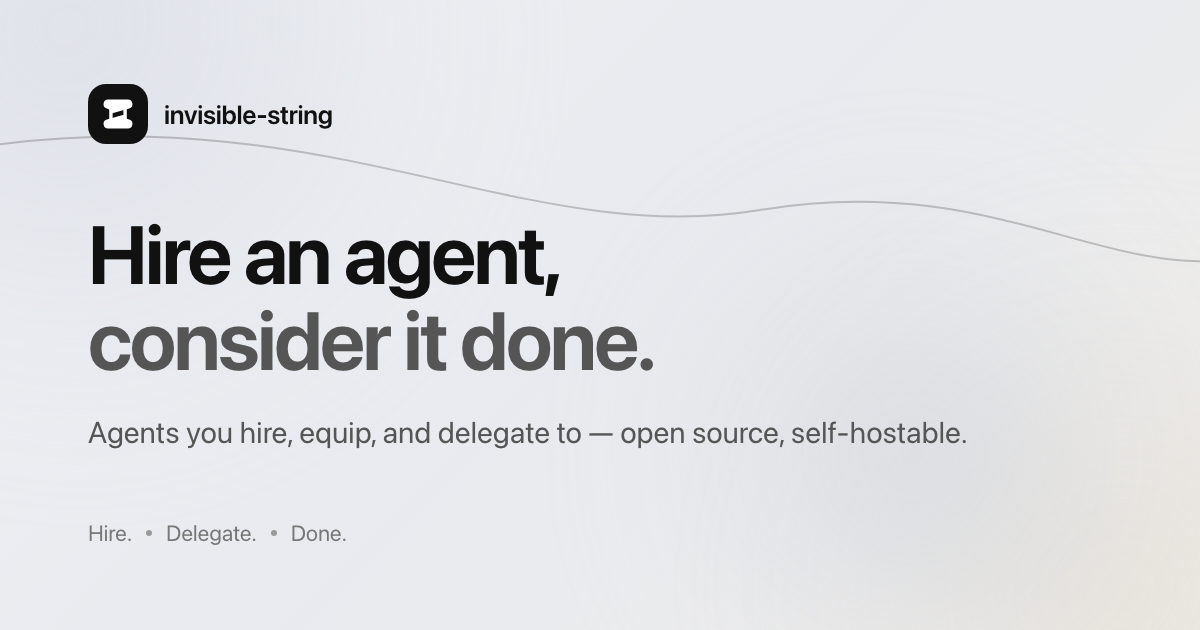
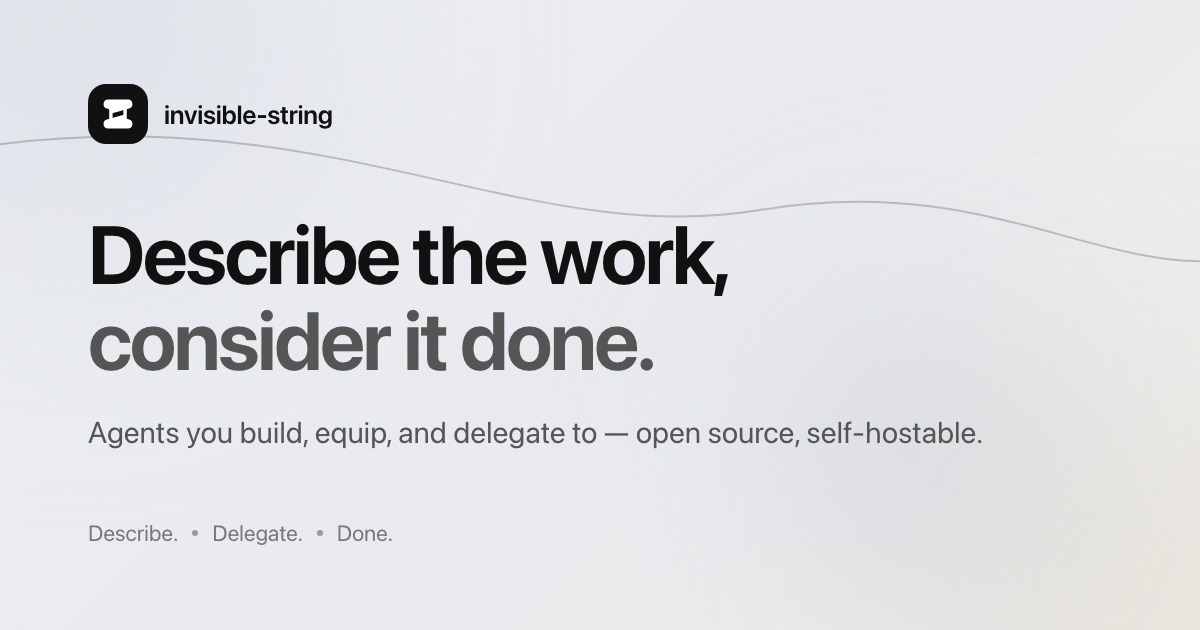
refactor(messaging): retire the hire voice for describe/delegate
Marketing and docs move from employment framing to acceleration framing:
hero becomes 'Describe the work, consider it done.', the verb set becomes
describe/build/equip/delegate, and the CTA triplet 'Describe. Delegate.
Done.' Agents are 'a role you define', never 'someone you hire' — the
platform accelerates people's work rather than replacing them. Swept across
the landing page, HTML metas, og image (regenerated), llms.txt, site docs,
README, AGENTS.md, UI copy, e2e narratives, and the normative vocabulary
standard in the 2026-07-10 spec (hire added to retired terms).

Changed region(s): [[0.0925, 0.3619, 0.6167, 0.4825], [0.2158, 0.6635, 0.8325, 0.7238], [0.0617, 0.8143, 0.3392, 0.8746]]

diff --git a/apps/site/index.html b/apps/site/index.html
@@ -3,10 +3,10 @@
   <head>
     <meta charset="UTF-8" />
     <meta name="viewport" content="width=device-width, initial-scale=1.0" />
-    <title>invisible-string — hire an agent, consider it done</title>
+    <title>invisible-string — describe the work, consider it done</title>
     <meta
       name="description"
-      content="Give an agent a job, a model, and the tools it needs. Chat with it like a teammate — or put it on standing duty from Slack, forms, webhooks, or a schedule. Live, reliable, and yours to approve."
+      content="Build an agent with a role, a model, and the tools it needs. Chat with it directly — or put it on standing duty from Slack, forms, webhooks, or a schedule. More time for the work only you can do."
     />
     <meta name="theme-color" content="#f7f7f7" />
     <link rel="icon" href="/favicon.svg" type="image/svg+xml" />
@@ -15,18 +15,18 @@
     <meta property="og:type" content="website" />
     <meta property="og:site_name" content="invisible-string" />
     <meta property="og:url" content="%VITE_SITE_URL%/" />
-    <meta property="og:title" content="invisible-string — hire an agent, consider it done" />
+    <meta property="og:title" content="invisible-string — describe the work, consider it done" />
     <meta
       property="og:description"
-      content="Give an agent a job, a model, and the tools it needs. Chat with it like a teammate — or put it on standing duty from Slack, forms, webhooks, or a schedule. Live, reliable, and yours to approve."
+      content="Build an agent with a role, a model, and the tools it needs. Chat with it directly — or put it on standing duty from Slack, forms, webhooks, or a schedule. More time for the work only you can do."
     />
     <meta property="og:image" content="%VITE_SITE_URL%/og.png" />
 
     <meta name="twitter:card" content="summary_large_image" />
-    <meta name="twitter:title" content="invisible-string — hire an agent, consider it done" />
+    <meta name="twitter:title" content="invisible-string — describe the work, consider it done" />
     <meta
       name="twitter:description"
-      content="Give an agent a job, a model, and the tools it needs. Chat with it like a teammate — or put it on standing duty from Slack, forms, webhooks, or a schedule. Live, reliable, and yours to approve."
+      content="Build an agent with a role, a model, and the tools it needs. Chat with it directly — or put it on standing duty from Slack, forms, webhooks, or a schedule. More time for the work only you can do."
     />
     <meta name="twitter:image" content="%VITE_SITE_URL%/og.png" />
   </head>

diff --git a/apps/site/src/components/landing/Agents.tsx b/apps/site/src/components/landing/Agents.tsx
@@ -4,7 +4,7 @@ import type { ComponentType } from "react";
 import { GlassPanel } from "../ui";
 import { Reveal, SectionHeading } from "./parts";
 
-/* "Hire the agent. Delegate the work." An Agent is someone you hire — three
+/* "Build the agent. Delegate the work." An Agent is a role you define — three
    cards spell out its definition (Persona · Model · Context) — and a Workflow
    is a standing delegation, drawn as a full-width trigger → agent →
    instructions strip beneath them. */
@@ -52,7 +52,7 @@ const DELEGATION: ReadonlyArray<{
     label: "Agent",
     icon: Bot,
     hint: "Who handles it",
-    copy: "One of the agents you've hired and published.",
+    copy: "One of the agents you've built and published.",
   },
   {
     label: "Instructions",
@@ -66,9 +66,9 @@ export function Agents() {
   return (
     <section className="site-container section-block">
       <SectionHeading
-        eyebrow="Hire it"
-        title="Hire the agent. Delegate the work."
-        lede="An agent is someone you hire — give it a persona, a model, and the tools it's equipped with. Publish it once: chat with it directly, or put it on standing duty."
+        eyebrow="Build it"
+        title="Build the agent. Delegate the work."
+        lede="Give an agent a role, a model, and the tools of its trade. Publish it once: chat with it directly, or put it on standing duty."
       />
 
       <div className="mt-12 grid gap-4 md:grid-cols-3">

diff --git a/apps/site/src/components/landing/Hero.tsx b/apps/site/src/components/landing/Hero.tsx
@@ -45,7 +45,7 @@ export function Hero() {
         className="text-display-1 text-balance"
       >
         <motion.span variants={line} className="block">
-          Hire an agent,
+          Describe the work,
         </motion.span>
         <motion.span variants={line} className="block">
           consider it done.
@@ -58,9 +58,9 @@ export function Hero() {
         transition={{ duration: 0.4, ease: EASE, delay: 0.28 }}
         className="mt-6 max-w-2xl text-lede text-ink-2"
       >
-        Give an agent a job, a model, and the tools it needs. Chat with it like
-        a teammate — or put it on standing duty from Slack, forms, webhooks, or
-        a schedule. Live, reliable, and yours to approve.
+        Build an agent with a role, a model, and the tools it needs. Chat with
+        it directly — or put it on standing duty from Slack, forms, webhooks, or
+        a schedule. More time for the work only you can do.
       </motion.p>
 
       <motion.div
@@ -87,7 +87,7 @@ export function Hero() {
         className="mt-16 w-full max-w-4xl sm:mt-20"
       >
         <Vignette
-          label="An agent is hired — persona, model, tools — published, then handles a request in chat in six seconds."
+          label="An agent comes together — persona, model, tools — is published, then handles a request in chat in six seconds."
           className="p-0"
         >
           <AgentVignette />

diff --git a/apps/site/og.html b/apps/site/og.html
@@ -170,16 +170,16 @@
 
       <div>
         <h1 class="headline">
-          Hire an agent,<br />
+          Describe the work,<br />
           <span class="muted">consider it done.</span>
         </h1>
         <p class="subline">
-          Agents you hire, equip, and delegate to — open source, self-hostable.
+          Agents you build, equip, and delegate to — open source, self-hostable.
         </p>
       </div>
 
       <div class="foot">
-        <span>Hire.</span>
+        <span>Describe.</span>
         <span class="dot"></span>
         <span>Delegate.</span>
         <span class="dot"></span>

diff --git a/e2e/specs/agent-workflow.e2e.ts b/e2e/specs/agent-workflow.e2e.ts
@@ -5,7 +5,7 @@
  *
  *   sign in → author a skill (with a file attachment) in /context → install a
  *   registry MCP connection (registry browser, network-stubbed) + add a
- *   custom-URL MCP connection (→ the local stub server) → HIRE an agent in
+ *   custom-URL MCP connection (→ the local stub server) → BUILD an agent in
  *   /agents: persona, balanced model preset, both connections + the skill
  *   attached → Publish (real eve build; wait for the ready chip) → CHAT with
  *   it via the "New chat" agent picker: the WORKING BLOCK streams live steps
@@ -56,7 +56,7 @@ const AGENT_NAME = "Acceptance triage agent";
 const WORKFLOW_NAME = "Acceptance form workflow";
 const FORM_EMAIL = "[email redacted]";
 
-test("hire an agent in the UI, publish + chat, then delegate a form workflow to it", async ({
+test("build an agent in the UI, publish + chat, then delegate a form workflow to it", async ({
   page,
 }) => {
   await signUpIntoWorkspace(page, "acceptance");
@@ -71,7 +71,7 @@ test("hire an agent in the UI, publish + chat, then delegate a form workflow to 
   await installRegistryConnection(page, { name: REGISTRY_CONNECTION, query: "notes" });
   await addCustomConnection(page, { name: CUSTOM_CONNECTION });
 
-  // ── hire the agent: persona · model · context ──────────────────────────────
+  // ── build the agent: persona · model · context ──────────────────────────────
   await openNewAgent(page, AGENT_NAME);
   await writePersona(
     page,

diff --git a/apps/site/src/components/landing/AgentVignette.tsx b/apps/site/src/components/landing/AgentVignette.tsx
@@ -9,7 +9,7 @@ import { useLoopPhase } from "./useLoopPhase";
 
 /*
  * Hero centerpiece — a hand-built, vector-sharp miniature of the real agent
- * editor, looping autonomously (~12s, calm): an agent is hired as its three
+ * editor, looping autonomously (~12s, calm): an agent comes together as its three
  * definition cards (Persona · Model · Context) fill in one by one and flip to
  * a green ✓, "Publish" presses itself → "Published and built." → the agent
  * goes on duty and a chat panel streams a working block that folds to a
@@ -157,7 +157,7 @@ export function AgentVignette() {
             animate={{ opacity: streaming || worked ? 0 : 1 }}
             className="col-start-1 row-start-1 flex items-start px-1 pt-1 text-[12px] text-ink-4"
           >
-            Hiring the agent…
+            Building the agent…
           </motion.div>
         </div>
       </div>

diff --git a/apps/site/src/components/landing/FinalCTA.tsx b/apps/site/src/components/landing/FinalCTA.tsx
@@ -11,9 +11,9 @@ export function FinalCTA() {
     <section className="site-container section-block">
       <Reveal>
         <GlassPanel className="flex flex-col items-center gap-6 px-6 py-16 text-center sm:py-20">
-          <h2 className="text-display-2 text-balance">Hire. Delegate. Done.</h2>
+          <h2 className="text-display-2 text-balance">Describe. Delegate. Done.</h2>
           <p className="max-w-xl text-lede text-ink-2">
-            Your first hire is a conversation away. Open source, self-hostable,
+            Your first agent is a conversation away. Open source, self-hostable,
             and ready to take work off your plate.
           </p>
           <div className="mt-2 flex flex-wrap items-center justify-center gap-3">

diff --git a/apps/site/src/components/landing/UseCases.tsx b/apps/site/src/components/landing/UseCases.tsx
@@ -1,7 +1,7 @@
 import { GlassPanel, StatusChip } from "../ui";
 import { Reveal, SectionHeading } from "./parts";
 
-/* "What would I hand off?" — three agents you could hire this afternoon, each
+/* "What would I hand off?" — work you could hand off this afternoon, each
    a trigger chip + a plain-language sketch of the standing work it handles.
    FeatureGrid's card DNA (glass panel, .lift, Reveal stagger); the icon square
    is swapped for a StatusChip trigger chip. No new animation machinery. */
@@ -34,7 +34,7 @@ export function UseCases() {
       <SectionHeading
         eyebrow="Use cases"
         title="What will you hand off first?"
-        lede="Agents you could hire this afternoon — equip one once, then delegate."
+        lede="Work you could hand off this afternoon — equip an agent once, then delegate."
       />
       <div className="mt-12 grid gap-4 md:grid-cols-3">
         {USE_CASES.map((u, i) => (

diff --git a/apps/web/src/lib/copilot/agent-mutations.ts b/apps/web/src/lib/copilot/agent-mutations.ts
@@ -213,7 +213,7 @@ export function agentCopilotAdapter(
     emptyStateCopy: {
       title: "Shape this agent with copilot",
       description:
-        "Describe the teammate you're hiring — persona, model and tool suggestions land as Apply/Preview cards you can accept one by one.",
+        "Describe the agent you're building — persona, model and tool suggestions land as Apply/Preview cards you can accept one by one.",
     },
     promptChips: () => {
       const draft = getDraft();

diff --git a/apps/web/src/routes/_app.agents.index.tsx b/apps/web/src/routes/_app.agents.index.tsx
@@ -32,7 +32,7 @@ function AgentsIndex() {
         <EmptyState
           icon={Bot}
           title="No active workspace"
-          description="Select or create a workspace to hire agents."
+          description="Select or create a workspace to build agents."
         />
       </Panel>
     );

diff --git a/e2e/specs/chat-approval.e2e.ts b/e2e/specs/chat-approval.e2e.ts
@@ -37,7 +37,7 @@ test("a run parks on an inline HITL card, then responding resumes it", async ({
   await signUpIntoWorkspace(page, "approval");
   await addCustomConnection(page, { name: CONNECTION });
 
-  // Hire an agent, equip it with the connection, and gate the connection
+  // Build an agent, equip it with the connection, and gate the connection
   // behind approval — exercises the per-connection approval-policy UI.
   await openNewAgent(page, AGENT_NAME);
   await writePersona(

diff --git a/e2e/specs/screenshots.e2e.ts b/e2e/specs/screenshots.e2e.ts
@@ -233,7 +233,7 @@ test("capture the eight product screenshots", async ({ page, browser }) => {
   ).toBeVisible();
   await shoot(page, "context.png");
 
-  // ── hire the agent: persona · model · context (the flagship editor) ────────
+  // ── build the agent: persona · model · context (the flagship editor) ────────
   await openNewAgent(page, AGENT_NAME);
   await page.getByLabel("Description").fill(AGENT_DESCRIPTION);
   await attachAgentResource(page, "connection", REGISTRY_CONNECTION);